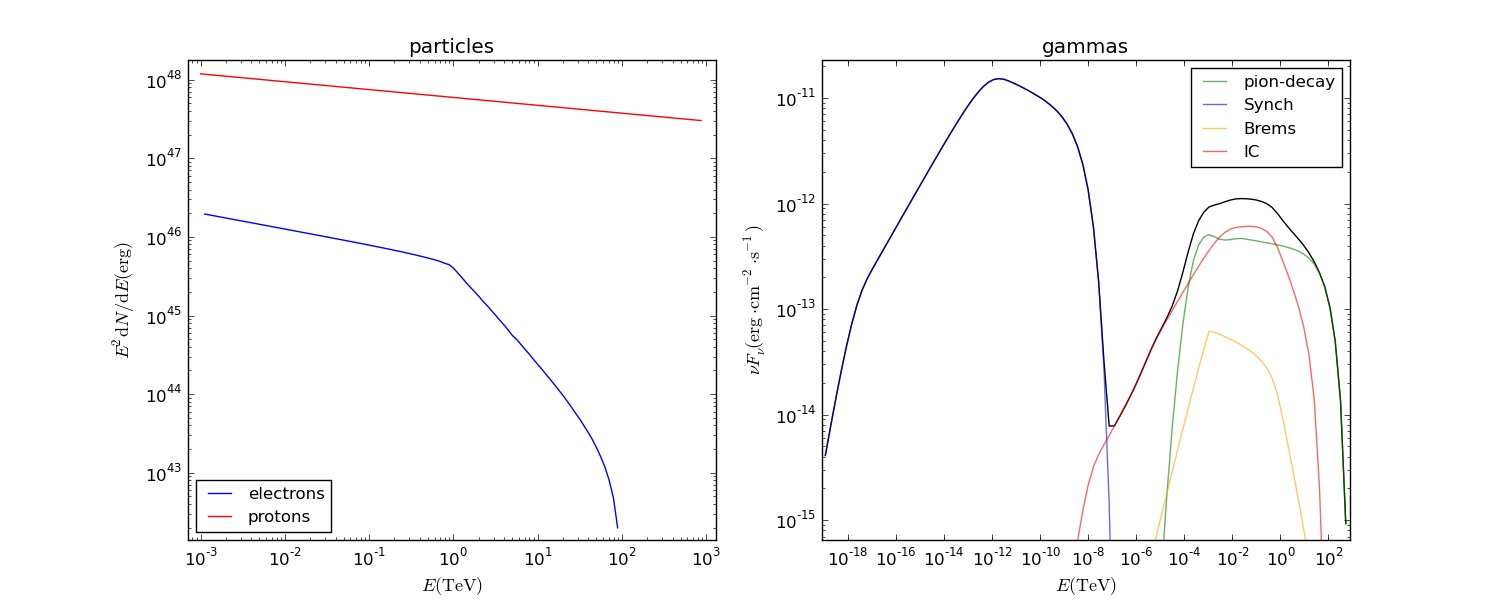
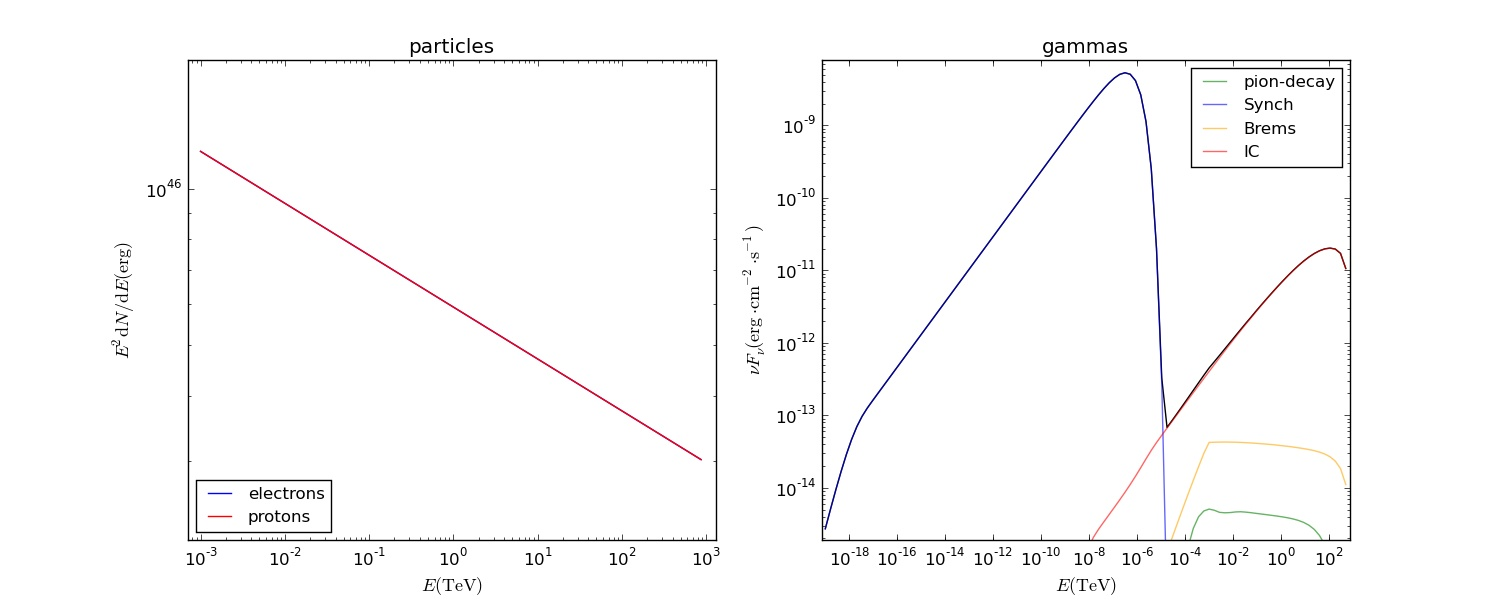
Radiation: Intercept case for AddSSCTargetPhotons where no target fields have been set previously. Renamed SetSourceExtension to SetRadius.

diff --git a/src/Radiation.C b/src/Radiation.C
@@ -8,12 +8,17 @@ Radiation::Radiation() {
   ParticleVector.clear();
   DEBUG = false;
   SSCSET = false;
+  lumtoflux = 0.;
   fintbrems = lintbrems = fintpp = lintpp = fintic = lintic = 0.;
   ldiffbrems = fdiffbrems = ldiffsynch = fdiffsynch = 0.;
   ldiffic = fdiffic = ldiffpp = fdiffpp = 0.;
+  distance = BField = 0.;
+  ElectronLookup = NULL;
+  ProtonLookup = NULL;
   TargetPhotonEdens = 0.;
   TargetPhotonVector.clear();
   TargetPhotonVectorOld.clear();
+  LUMFLAG = false;
   INTEGRATEOVERGAMMAS = false;
   QUIETMODE = false;
   PiModel = 1;
@@ -72,18 +77,19 @@ void Radiation::CalculateDifferentialGammaEmission(double e, int particletype) {
   ldiffbrems = fdiffbrems = ldiffsynch = fdiffsynch = 0.;
   ldiffic = fdiffic = ldiffpp = fdiffpp = 0.;
 
-  /* Conversion of differential photon rate to flux
-   [ph/(erg*s) -> ph/(erg*s*cm^2)] */
-  double lumtoflux = 0.;
   void *p = NULL;
-  if (!distance) {
-    cout << "### Radiation::CalculateDifferentialGammaEmission: Distance to "
-            "particles not specified -> Flux equals now the luminosity! ###"
-         << endl;
-    lumtoflux = 1.;
-  } else
-    lumtoflux = 1. / (4. * pi * distance * distance);
-
+  if(!lumtoflux) {
+    if (!distance) {
+      if(LUMFLAG == false) {
+        cout << "### Radiation::CalculateDifferentialGammaEmission: Distance to "
+                "particles not specified -> Flux equals now the luminosity! ###"
+             << endl;
+      }
+      LUMFLAG = true;
+      lumtoflux = 1.;
+    } else
+      lumtoflux = 1. / (4. * pi * distance * distance);
+  }
   if (particletype != 0. && particletype != 1) {
     cout << "### Radiation::CalculateDifferentialGammaEmission: Please provide "
             "proper particle spectrum and particle type!  ###" << endl;
@@ -96,17 +102,19 @@ void Radiation::CalculateDifferentialGammaEmission(double e, int particletype) {
     return;
   } else if (!particletype) {
     ParticleVector = ElectronVector;
-    radiationMechanism = "Bremsstrahlung";
-    ldiffbrems = DifferentialEmissionComponent(e, p);
-    fdiffbrems = lumtoflux * ldiffbrems;
-
+    if(n) {
+      radiationMechanism = "Bremsstrahlung";
+      ldiffbrems = DifferentialEmissionComponent(e, p);
+      fdiffbrems = lumtoflux * ldiffbrems;
+    }
     radiationMechanism = "InverseCompton";
     ldiffic = DifferentialEmissionComponent(e, p);
     fdiffic = lumtoflux * ldiffic;
-
-    radiationMechanism = "Synchrotron";
-    ldiffsynch = DifferentialEmissionComponent(e, p);
-    fdiffsynch = lumtoflux * ldiffsynch;
+    if(BField) {
+      radiationMechanism = "Synchrotron";
+      ldiffsynch = DifferentialEmissionComponent(e, p);
+      fdiffsynch = lumtoflux * ldiffsynch;
+    }
   } else if (particletype == 1) {
     ParticleVector = ProtonVector;
     radiationMechanism = "ppEmission";
@@ -966,6 +974,14 @@ void Radiation::SetParticles(vector<vector<double> > PARTICLES, int type) {
       cout << "Radiation::SetParticles: proton vector empty. Exiting." << endl;
     return;
   }
+  if(!type && ElectronLookup) {
+      cout << "Radiation::SetParticles: Overriding existing electron lookup."
+           << endl;
+  }
+  if(type && ProtonLookup) {
+      cout << "Radiation::SetParticles: Overriding existing proton lookup."
+           << endl;
+  }
   int size = (int)PARTICLES.size();
   double x[PARTICLES.size()];
   double y[PARTICLES.size()];
@@ -1140,8 +1156,9 @@ void Radiation::AddSSCTargetPhotons(double R, int steps) {
     return;
   }
   void *p = NULL;
-  double eminxray = 1.e-19;
-  double logeminxray = TargetPhotonVector[0][0];
+  double logeminxray = 0.;
+  if(!TargetPhotonVector.size()) logeminxray = log10(1e-6*eV_to_erg);
+  else logeminxray = TargetPhotonVector[0][0];
   double logemaxxray =
       log10(1.e-3 * ParticleVector[ParticleVector.size() - 1][0]);
   double estep = (logemaxxray - logeminxray) / steps;
@@ -1355,7 +1372,7 @@ void Radiation::CalculateDifferentialPhotonSpectrum(int steps, double emin,
     if (ElectronVector.size()) {
       CalculateDifferentialGammaEmission(E, 0);
       ICVal = GetDifferentialICFlux();
-      SynchVal = GetDifferentialSynchFlux();
+      if(BField) SynchVal = GetDifferentialSynchFlux();
       BremsVal = GetDifferentialBremsFlux();
     } else
       ICVal = SynchVal = BremsVal = 0.;

diff --git a/docu/tutorial/TutorialLevel5.py b/docu/tutorial/TutorialLevel5.py
@@ -19,13 +19,13 @@ def CalculateTimeDependentStuff():
 
   lum = (1.-etab)*lum0*(1.+t/tc)**(-1.*(brind+1.)/(brind-1.))
   emax = 3.*eps*gp.el_charge*np.sqrt(etab*lum/((1.-etab)*gp.c_speed))
-  r = c*(lum0*t*gp.yr_to_sec/e0)**0.2 * vej*t*gp.yr_to_sec
+  r = c*(lum0*t*gp.yr_to_sec/e0)**0.2 * vej*t*gp.yr_to_sec / gp.pc_to_cm # in pc
   v = 1.2*r/(gp.yr_to_sec*t)
   b = np.sqrt(gp.yr_to_sec*etab*6./r**4 * np.concatenate(([0], ((lum * r)[1:] * np.diff(t)).cumsum())))
 
   lum = np.vstack((t, lum)).T
   b = np.vstack((t, b)).T
-  emax = np.vstack((t, emax)).T
+  emax = 0.1*np.vstack((t, emax)).T
   r = np.vstack((t, r)).T
   v = np.vstack((t, v)).T
 
@@ -42,13 +42,13 @@ if __name__ == "__main__":
   lum0 = configParser.getfloat('Parameters','InitialLuminosity')
   age = configParser.getfloat('Parameters','Age')
   tc = configParser.getfloat('Parameters','CharAge')
-  dist = gp.pc_to_cm*configParser.getfloat('Parameters','Distance')
+  dist = configParser.getfloat('Parameters','Distance')
   dens = configParser.getfloat('Parameters','AmbientDensity')
   tNIR = configParser.getfloat('Parameters','tNIR')
   eNIR = gp.TeV_to_erg*1.e-12*configParser.getfloat('Parameters','edensNIR')
   tFIR = configParser.getfloat('Parameters','tFIR')
   eFIR = gp.TeV_to_erg*1.e-12*configParser.getfloat('Parameters','edensFIR')
-  ebins = configParser.getfloat('Parameters','Ebins')
+  ebins = configParser.getint('Parameters','Ebins')
   emin = gp.TeV_to_erg*configParser.getfloat('Parameters','Emin')
   ebreak = gp.TeV_to_erg*configParser.getfloat('Parameters','Ebreak')
   spindlow = configParser.getfloat('Parameters','SpectralIndexLow')
@@ -77,15 +77,15 @@ if __name__ == "__main__":
   fp.SetBreakEnergy(ebreak)
   fp.SetLowSpectralIndex(spindlow)
   fp.SetSpectralIndex(spindhigh)
-  fp.SetEnergyBinsForNumericalSolver(ebins)
+#  fp.SetEnergyBinsForNumericalSolver(ebins)
   fp.SetAge(age)
 
   # set radiation stuff
   fr = gp.Radiation()
   fr.SetDistance(dist)
-  fr.AddThermalTargetPhotons(2.7,0.25*1.602*1.e-12)
-  fr.AddThermalTargetPhotons(tFIR,eFIR)
-  fr.AddThermalTargetPhotons(tNIR,eNIR)
+#  fr.AddThermalTargetPhotons(2.7,0.25*1.602*1.e-12)
+#  fr.AddThermalTargetPhotons(tFIR,eFIR)
+#  fr.AddThermalTargetPhotons(tNIR,eNIR)
   fr.SetAmbientDensity(fp.GetAmbientDensity())
   fr.SetSynchrotronEmissionModel(1)
   fr.CreateICLossLookup()
@@ -94,9 +94,10 @@ if __name__ == "__main__":
   # calculate stuff
   fp.SetAge(age)
   fr.SetBField(fp.GetBField())
-  fp.CalculateParticleSpectrum("electrons")
+  fp.CalculateElectronSpectrum(ebins)
   fr.SetElectrons(fp.GetParticleSpectrum())
-  fr.AddSSCTargetPhotons(fp.GetRadius())
+  fr.AddSSCTargetPhotons(fp.GetRadius(),1000)
+  print "hello nachi!"
   fr.CalculateDifferentialPhotonSpectrum()
   ElectronSED = np.array(fr.GetElectronSED())
   TotalSED = np.array(fr.GetTotalSED())

diff --git a/src/Particles.C b/src/Particles.C
@@ -61,7 +61,7 @@ Particles::Particles() {
   eBreak2mSInd2 = emin2mSInd2 = emineBreak2mSInd2 = fS = fS2 = bremsl_epf =
       bremsl_eef = 0.;
   LumConstant = BConstant = NConstant = VConstant = RConstant = EmaxConstant = 
-      escapeTimeConstant = CustomInjectionNorm = NAN;
+      escapeTimeConstant = CustomInjectionNorm = Age = NAN;
   MinELookup = MaxELookup = 0.;
   accIC = gsl_interp_accel_alloc();
   accLum = gsl_interp_accel_alloc();
@@ -139,12 +139,11 @@ void Particles::CalculateParticleSpectrum(string type, int bins, bool onlyprepar
     if (Type == 1) cout << "   (-> protons)     " << endl;
   }
 
-  if(!Age) {
+  if(std::isnan(Age)) {
     cout << "Particles::CalculateParticleSpectrum: No age set! Exiting"
          << endl; 
     return;
   }
-  std::cout<<".."<<LumVector.size() <<" "<<LumConstant<<std::endl;
   if(!LumVector.size() && std::isnan(LumConstant)) {
     cout << "Particles::CalculateParticleSpectrum: Particle vector empty! Exiting"
          << endl;
@@ -188,6 +187,7 @@ void Particles::CalculateParticleSpectrum(string type, int bins, bool onlyprepar
       METHOD = 1;
     else METHOD = 2;
   }
+
   if(escapeTimeConstant > 0. || escapeTimeLookup != NULL || 
      EscapeTimeEnergyTimeEvolution != NULL) METHOD = 0;
   /* determine time from where to start the iteration. Particles that would have
@@ -211,12 +211,14 @@ void Particles::CalculateParticleSpectrum(string type, int bins, bool onlyprepar
   else
     eMax = DetermineEmax(Tmin);
 
+
   /* apply a safe margin to the upper energy boundary
    * in order to prevent numerical effects at the upper end of the spectrum.
    */
   energyMargin = pow(-log(energyMarginFactor), 1. / CutOffFactor);
   eMax *= energyMargin;
 
+  std::cout<< METHOD << "," << eMax << " "<<Emin<<std::endl;
   /* if emax falls below emin, return dummy vector with zeroes */
   if (eMax <= Emin) {
     cout << "Particles::FillParticleSpectrumLookup Whaat? eMax lower than "
@@ -1493,7 +1495,7 @@ void Particles::SetCustomTimeEnergyLookup(vector< vector<double> > vCustom, int 
 
 Radiation *Particles::GetSSCEquilibrium(Radiation *fr, double t, double tolerance) {
   Age = t;
-  METHOD = 1;
+//  METHOD = 1;
   SetMembers(Age);
   fr->CreateICLossLookup();
   SetLookup(fr->GetICLossLookup(), "ICLoss");

diff --git a/include/Radiation.h b/include/Radiation.h
@@ -38,6 +38,12 @@ class Radiation {
  private:
   void CalculateLuminosityAndFlux(string mechanism, double e, double &l,
                                   double &f);
+
+  
+  double lumtoflux;///< Conversion of differential photon rate to flux
+                   /// [ph/(erg*s) -> ph/(erg*s*cm^2)]
+  bool LUMFLAG; ///< this boolean is set to TRUE if no distance is given. 
+                /// In this case, the luminosity is calculated.
   double DifferentialEmissionComponent(double e, void *par);
   double GreyBody(double ephoton, double temp, double edens);
   double ICEmissivityRadFieldIntegrated(double x, void *par);

diff --git a/include/Utils.h b/include/Utils.h
@@ -120,7 +120,7 @@ class Utils {
                                     double x_max, int n);
   vector<double>  CustomFunctionRandom(vector< vector<double> > f,
                                        double xmin, double xmax, int n);
-  double Integrate(vector< vector<double> > f, double xmin, double xmax);
+  double Integrate(vector< vector<double> > f, double xmin=0., double xmax=0.);
   vector< vector< double> > IntegratedProfile(vector< vector<double> > f);
   gsl_spline *GSLsplineFromTwoDVector(vector< vector<double> > v);
   vector< vector<double> > SortTwoDVector(vector< vector<double> > v,

diff --git a/docu/tutorial/TutorialLevel2.py b/docu/tutorial/TutorialLevel2.py
@@ -75,12 +75,12 @@ if __name__ == "__main__":
   fp.SetICLossLookup(fr.GetICLossLookup())
 
   # calculate stuff
-  fp.CalculateParticleSpectrum("electrons")
+  fp.CalculateElectronSpectrum()
   fr.SetElectrons(fp.GetParticleSpectrum())
   fp.SetLuminosity(1.e2*lum)
   fp.SetEmax(gp.TeV_to_erg*1.e3)
   fp.SetSpectralIndex(spind-0.1)
-  fp.CalculateParticleSpectrum("protons")
+  fp.CalculateProtonSpectrum()
   fr.SetProtons(fp.GetParticleSpectrum())
   fr.CalculateDifferentialPhotonSpectrum()
 

diff --git a/src/Utils.C b/src/Utils.C
@@ -416,6 +416,12 @@ double Utils::Integrate(vector< vector<double> > f, double xmin, double xmax) {
     "Exiting & returning 0." << endl;
     return 0.;
   }
+  if(f[0].size() != 2) {
+    cout << "Utils::Integrate: Input is 2D-array. This one has only "
+         << f[0].size() 
+         << " dimensions. Exiting & returning 0." << endl;
+    return 0.;
+  }
   if(!xmin && !xmax) {
     xmin = f[0][0];
     xmax = f[f.size()-1][0];

diff --git a/include/Particles.h b/include/Particles.h
@@ -484,7 +484,7 @@ struct timespec time0, time1, time2, time3;
     LumVector.clear();
     LumConstant = LUMConstant;
   }  ///< Constantly set value of source luminosity
-  void SetSourceExtension(double r) {
+  void SetRadius(double r) {
     RVector.clear();
     RConstant = pc_to_cm*r;
   }  ///< Constanty set value of source extension (pc)
